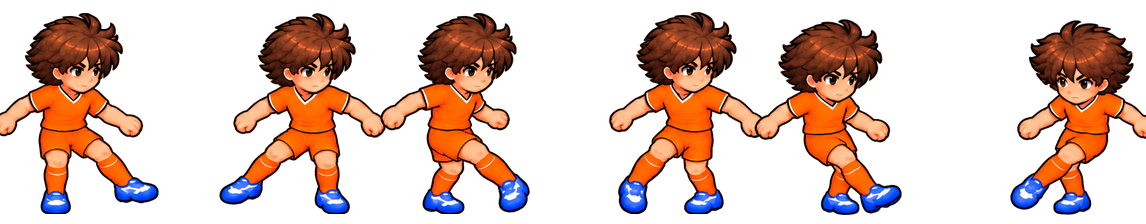
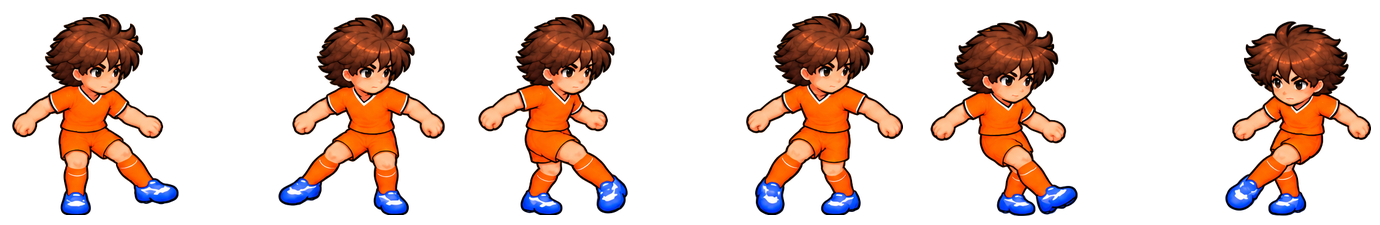
Ball Mastery runtime sheets: size cells to the widest reach around the boot anchor so no hand is clipped

diff --git a/src/render/art/bmSheet.ts b/src/render/art/bmSheet.ts
@@ -2,7 +2,7 @@
 /** Ball Mastery art v1 runtime cells: one scale per character (from P1 visible height), anchor = ground point between the boots. */
 export const BM_SHEET = Object.freeze({
   boy: {
-    cell: { w: 191, h: 224 }, anchor: { x: 95, y: 212 }, visibleHeight: 200,
+    cell: { w: 230, h: 225 }, anchor: { x: 115, y: 213 }, visibleHeight: 200,
     frames: {
     P1: { index: 0, boots: [[-40, 0], [40, -12]] as const },
     P2: { index: 1, boots: [[-45, -10], [45, 0]] as const },
@@ -13,7 +13,7 @@ export const BM_SHEET = Object.freeze({
     },
   },
   girl: {
-    cell: { w: 190, h: 224 }, anchor: { x: 95, y: 212 }, visibleHeight: 200,
+    cell: { w: 234, h: 225 }, anchor: { x: 117, y: 213 }, visibleHeight: 200,
     frames: {
     P1: { index: 0, boots: [[-37, 0], [37, -22]] as const },
     P2: { index: 1, boots: [[-36, -22], [36, 0]] as const },

diff --git a/scripts/art/build-ball-mastery.py b/scripts/art/build-ball-mastery.py
@@ -97,8 +97,11 @@ def runtime():
         im = Image.open(OUT / f'{sex}_contact_poses_clean.png')
         fr = {f['id']: f for f in meta['sheets'][sex]}
         k = TARGET_H / fr['P1']['visible_height']
-        cw = max(int(fr[p]['rect'][2] * k) for p in RUNTIME_POSES) + 24
-        ch = TARGET_H + 24
+        # The anchor sits between the boots, not at the figure's centre: size the cell to the widest reach on either
+        # side of it (and the tallest pose) so no hand, hair or boot is cut off.
+        reach = max(max(fr[p]['anchor']['x'] - fr[p]['rect'][0], fr[p]['rect'][0] + fr[p]['rect'][2] - fr[p]['anchor']['x']) for p in RUNTIME_POSES)
+        cw = 2 * (int(reach * k) + 1) + 16
+        ch = max(int((fr[p]['anchor']['y'] - fr[p]['rect'][1]) * k) + 1 for p in RUNTIME_POSES) + 24
         sheet = Image.new('RGBA', (cw * len(RUNTIME_POSES), ch), (0, 0, 0, 0))
         frames = []
         for i, pid in enumerate(RUNTIME_POSES):
@@ -107,6 +110,7 @@ def runtime():
             ax, ay = f['anchor']['x'], f['anchor']['y']
             ox = cw // 2 - round((ax - x) * k)
             oy = ch - 12 - round((ay - y) * k)
+            assert ox >= 1 and oy >= 1 and ox + crop.width <= cw - 1 and oy + crop.height <= ch - 1, f'{sex} {pid} would be clipped'
             sheet.alpha_composite(crop, (i * cw + ox, oy))
             boots = [[round((b['x'] - ax) * k), round((b['bottom'] - ay) * k)] for b in f['boots_image_left_to_right']]
             frames.append(f"    {pid}: {{ index: {i}, boots: {json.dumps(boots)} as const }},")

diff --git a/docs/art/ball-mastery-v1/INTAKE.md b/docs/art/ball-mastery-v1/INTAKE.md
@@ -74,3 +74,9 @@ keeps sprites-v2); the weekly board drops "choose a focus" and Team Training but
 7. Style mismatch: painted, higher resolution and all-orange kit vs the pixel-art sprites-v2 protagonist.
 8. Character pixels are alpha 250–254 with a haze of alpha 1–15 around every figure (fixed in the derivatives).
 9. Hook turn and Cruyff turn: no pose in either sheet shows a drag behind the standing leg; not attempted.
+10. Contact surface legibility: in the front-facing P9/P10 drawings the ball meets what reads as the toe/front edge of
+    the boot, not a clearly visible inside surface. The page names "inside of the foot" from the lesson; the art does
+    not prove it. Needs a 3/4 or side-on contact drawing.
+11. Fixed in the runtime build: cells were sized to figure width but centred on the boot anchor, cutting off a hand
+    (boy P4 and contact poses). The build now sizes cells to the widest reach either side of the anchor and fails if
+    any pose would touch its cell edge.
